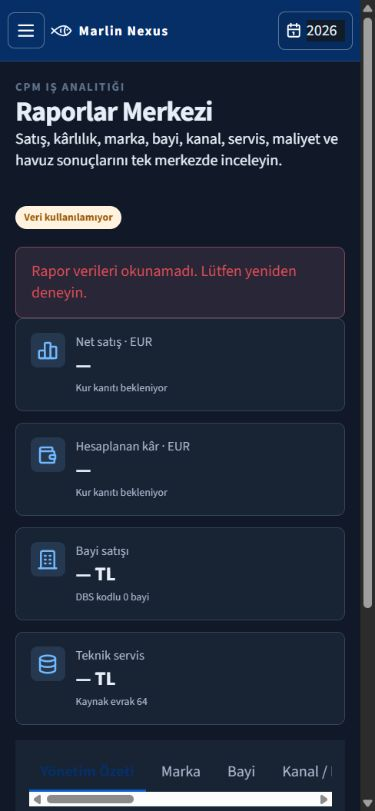
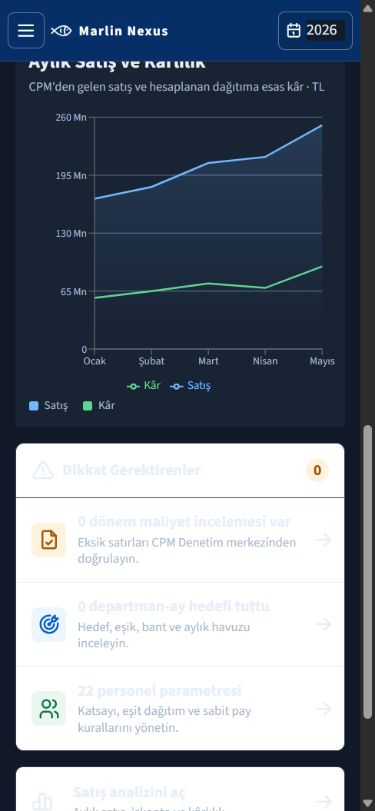
fix(ui): close final Task 3 review findings

diff --git a/src/SummaryPage.jsx b/src/SummaryPage.jsx
@@ -10,24 +10,28 @@ export function AccessibleChartLegend({ label, items }) {
   return <ul className="chart-legend" aria-label={label}>{items.map((item) => <li key={item.name}><i aria-hidden="true" style={{ background: item.color }} /><span>{item.name}</span></li>)}</ul>;
 }
 
-export function SummaryPage({ rows, settings, employees, targetRows, annualPool, year, mode, onNavigate }) {
+export function SummaryPage({ rows, settings, employees, targetRows, annualPool, year, mode = "demo", onNavigate }) {
   const [reportType,setReportType]=useState("management");
   const [startMonth,setStartMonth]=useState(1);
   const [endMonth,setEndMonth]=useState(12);
+  const isLoading = mode === "loading";
+  const isError = mode === "error";
+  const effectiveRows = isLoading || isError ? [] : rows;
+  const effectiveTargetRows = isLoading || isError ? [] : targetRows;
   const distributionResult = useMemo(
     () => calculateDepartmentDistribution({
       employees,
       settings,
-      targetRows,
+      targetRows: effectiveTargetRows,
     }),
-    [employees, settings, targetRows],
+    [employees, settings, effectiveTargetRows],
   );
   const distribution = distributionResult.employees;
-  const chartRows = rows.map((row) => ({ ...row, profit: row.profit ?? (row.sales - row.returns - row.discounts - row.estimatedCost - (row.uncoveredNetSales || 0)) }));
+  const chartRows = effectiveRows.map((row) => ({ ...row, profit: row.profit ?? (row.sales - row.returns - row.discounts - row.estimatedCost - (row.uncoveredNetSales || 0)) }));
   const totals = chartRows.reduce((acc, row) => ({ sales: acc.sales + row.sales, profit: acc.profit + row.profit }), { sales: 0, profit: 0 });
   const eligible = distribution.filter((employee) => employee.eligible).length;
-  const reviewPeriods = rows.filter((row) => Number(row.uncoveredCostLines || 0) > 0);
-  const targetMonths = targetRows.filter((row) => row.target > 0);
+  const reviewPeriods = effectiveRows.filter((row) => Number(row.uncoveredCostLines || 0) > 0);
+  const targetMonths = effectiveTargetRows.filter((row) => row.target > 0);
   const metTargetMonths = targetMonths.filter((row) => row.band !== "none");
   const reportRows=chartRows.filter((row)=>row.month>=startMonth&&row.month<=endMonth);
   const reportTotals=reportRows.reduce((acc,row)=>({sales:acc.sales+row.sales,returns:acc.returns+row.returns,discounts:acc.discounts+row.discounts,cost:acc.cost+row.estimatedCost,profit:acc.profit+row.profit}),{sales:0,returns:0,discounts:0,cost:0,profit:0});
@@ -42,18 +46,20 @@ export function SummaryPage({ rows, settings, employees, targetRows, annualPool,
     discount:`Seçilen dönemde ${money.format(reportTotals.discounts)} TL iskonto ve ${money.format(reportTotals.returns)} TL satış iadesi oluştu. Toplam ticari düşüş brüt satışın %${reportTotals.sales?(((reportTotals.discounts+reportTotals.returns)/reportTotals.sales)*100).toFixed(1).replace(".",","):0} seviyesindedir.`,
   };
 
+  const stateText = isLoading ? "Yönetici özeti verileri yükleniyor…" : "Yönetici özeti verileri okunamadı. Canlı veya pilot veri gösterilmiyor.";
   return <main className="page summary-page" id="top">
-    <section className="page-heading summary-heading"><div><p className="eyebrow">Yönetim özeti</p><h1>Havuz Genel Bakış</h1><p>{year} performansını, departman hedeflerini ve havuz oluşumunu tek ekranda izleyin.</p></div><span className={`source-badge source-badge--${mode}`}>{mode === "live" ? "CPM canlı" : "Pilot veri"}</span></section>
+    <section className="page-heading summary-heading"><div><p className="eyebrow">Yönetim özeti</p><h1>Havuz Genel Bakış</h1><p>{year} performansını, departman hedeflerini ve havuz oluşumunu tek ekranda izleyin.</p></div><span className={`source-badge source-badge--${mode}`}>{mode === "live" ? "CPM canlı" : mode === "demo" ? "Pilot veri" : mode === "loading" ? "Veri yükleniyor" : "Veri kullanılamıyor"}</span></section>
+    {(isLoading || isError) && <div className={`report-state report-state--${isError ? "error" : "loading"}`} role={isError ? "alert" : "status"} aria-live="polite">{stateText}</div>}
     <section className="summary-kpis">
-      <article><span><IconChartBar /></span><div className="label-value"><small>Net satışlar</small><strong>{money.format(totals.sales)} TL</strong><p>{rows.length} dönem verisi</p></div></article>
+      <article><span><IconChartBar /></span><div className="label-value"><small>Net satışlar</small><strong>{money.format(totals.sales)} TL</strong><p>{effectiveRows.length} dönem verisi</p></div></article>
       <article><span className="green"><IconWallet /></span><div className="label-value"><small>Net dağıtım havuzu</small><strong>{money.format(annualPool)} TL</strong><p>Hedef bantları, rezerv sonrası</p></div></article>
       <article><span className="blue"><IconUsers /></span><div className="label-value"><small>Uygun personel</small><strong>{eligible} / {distribution.length}</strong><p>{distribution.length - eligible} kişi kapsam dışında</p></div></article>
       <article><span className="amber"><IconTargetArrow /></span><div className="label-value"><small>Hedef tutan departman-ay</small><strong>{metTargetMonths.length} / {targetMonths.length}</strong><p>Temkinli veya büyüme bandı</p></div></article>
     </section>
     <section className="panel narrative-report"><div className="narrative-report__head"><div><p className="eyebrow">Yazılı analiz</p><h2>Seçilebilir Yönetim Raporu</h2></div><div className="narrative-controls"><select value={reportType} onChange={(event)=>setReportType(event.target.value)}><option value="management">Yönetim özeti</option><option value="sales">Satış raporu</option><option value="profit">Kârlılık raporu</option><option value="cost">Maliyet raporu</option><option value="discount">İskonto ve iade raporu</option></select><select value={startMonth} onChange={(event)=>setStartMonth(Math.min(Number(event.target.value),endMonth))}>{rows.map((row)=><option key={row.month} value={row.month}>{row.monthName}</option>)}</select><select value={endMonth} onChange={(event)=>setEndMonth(Math.max(Number(event.target.value),startMonth))}>{rows.map((row)=><option key={row.month} value={row.month}>{row.monthName}</option>)}</select><button className="secondary-button" onClick={()=>window.print()}>Raporu yazdır</button></div></div><p className="narrative-copy">{narratives[reportType]}</p><small>Devam eden aylar tamamlanmış ay gibi yorumlanmaz; rapor seçilen veri aralığıyla sınırlıdır.</small></section>
     <div className="summary-grid">
-      <section className="panel summary-performance"><div className="panel-heading"><div><h2>Aylık Satış ve Kârlılık</h2><p>CPM'den gelen satış ve hesaplanan dağıtıma esas kâr · TL</p></div></div>{chartRows.length ? <div className="summary-chart" role="img" aria-label="Aylık satış ve kârlılık grafiği"><ResponsiveContainer width="100%" height={310}><AreaChart data={chartRows} margin={{ top: 18, right: 18, left: 4, bottom: 4 }}><defs><linearGradient id="salesFill" x1="0" y1="0" x2="0" y2="1"><stop offset="5%" stopColor="var(--chart-sales)" stopOpacity={.25}/><stop offset="95%" stopColor="var(--chart-sales)" stopOpacity={0}/></linearGradient></defs><CartesianGrid vertical={false} stroke="var(--chart-grid)"/><XAxis dataKey="monthName" tick={{ fontSize: 11, fill: "var(--muted)" }}/><YAxis tickFormatter={(value) => compact.format(value)} tick={{ fontSize: 11, fill: "var(--muted)" }} width={72}/><Tooltip formatter={(value) => `${money.format(value)} TL`}/><Legend iconType="line" wrapperStyle={{ fontSize: 12 }}/><Area dataKey="sales" name="Satış" stroke="var(--chart-sales)" fill="url(#salesFill)" strokeWidth={2}/><Area dataKey="profit" name="Kâr" stroke="var(--chart-profit)" fill="transparent" strokeWidth={2}/></AreaChart></ResponsiveContainer></div> : <div className="report-state report-state--empty">Aylık grafik için veri bulunamadı.</div>}
-      <AccessibleChartLegend label="Aylık satış ve kârlılık serileri" items={[{ name: "Satış", color: "var(--chart-sales)" }, { name: "Kâr", color: "var(--chart-profit)" }]} />
+      <section className="panel summary-performance"><div className="panel-heading"><div><h2>Aylık Satış ve Kârlılık</h2><p>CPM'den gelen satış ve hesaplanan dağıtıma esas kâr · TL</p></div></div>{chartRows.length ? <div className="summary-chart" role="img" aria-label="Aylık satış ve kârlılık grafiği"><ResponsiveContainer width="100%" height={310}><AreaChart data={chartRows} margin={{ top: 18, right: 18, left: 4, bottom: 4 }}><defs><linearGradient id="salesFill" x1="0" y1="0" x2="0" y2="1"><stop offset="5%" stopColor="var(--chart-sales)" stopOpacity={.25}/><stop offset="95%" stopColor="var(--chart-sales)" stopOpacity={0}/></linearGradient></defs><CartesianGrid vertical={false} stroke="var(--chart-grid)"/><XAxis dataKey="monthName" tick={{ fontSize: 11, fill: "var(--muted)" }}/><YAxis tickFormatter={(value) => compact.format(value)} tick={{ fontSize: 11, fill: "var(--muted)" }} width={72}/><Tooltip formatter={(value) => `${money.format(value)} TL`}/><Legend iconType="line" wrapperStyle={{ fontSize: 12 }}/><Area dataKey="sales" name="Satış" stroke="var(--chart-sales)" fill="url(#salesFill)" strokeWidth={2}/><Area dataKey="profit" name="Kâr" stroke="var(--chart-profit)" fill="transparent" strokeWidth={2}/></AreaChart></ResponsiveContainer></div> : !(isLoading || isError) && <div className="report-state report-state--empty">Aylık grafik için veri bulunamadı.</div>}
+      {chartRows.length > 0 && <AccessibleChartLegend label="Aylık satış ve kârlılık serileri" items={[{ name: "Satış", color: "var(--chart-sales)" }, { name: "Kâr", color: "var(--chart-profit)" }]} />}
       </section>
       <aside className="summary-attention"><div className="summary-attention__head"><IconAlertTriangle/><strong>Dikkat Gerektirenler</strong><span>{reviewPeriods.length + distributionResult.departments.filter((item) => item.allocationStatus === "review-required").length}</span></div><div className="attention-list"><button onClick={() => onNavigate("audit")}><span className="attention-icon warning"><IconFileCheck/></span><div><strong>{reviewPeriods.length} dönem maliyet incelemesi var</strong><small>Eksik satırları CPM Denetim merkezinden doğrulayın.</small></div><IconArrowRight/></button><button onClick={() => onNavigate("goals")}><span className="attention-icon info"><IconTargetArrow/></span><div><strong>{metTargetMonths.length} departman-ay hedefi tuttu</strong><small>Hedef, eşik, bant ve aylık havuzu inceleyin.</small></div><IconArrowRight/></button><button onClick={() => onNavigate("settings")}><span className="attention-icon ok"><IconUsers/></span><div><strong>{distribution.length} personel parametresi</strong><small>Katsayı, eşit dağıtım ve sabit pay kurallarını yönetin.</small></div><IconArrowRight/></button></div></aside>
     </div>

diff --git a/src/DepartmentAnalysisPage.jsx b/src/DepartmentAnalysisPage.jsx
@@ -34,6 +34,18 @@ const DEPARTMENTS = {
   review: { name: "İnceleme Gerekli", color: "var(--chart-review)", center: "—" },
 };
 
+export function getDepartmentChartSeries(department) {
+  const series = [];
+  if (department !== "parts" && department !== "review") series.push({ name: "Servis net satış", color: DEPARTMENTS.service.color });
+  if (department !== "service" && department !== "review") series.push({ name: "Yedek Parça net satış", color: DEPARTMENTS.parts.color });
+  if (department === "all" || department === "review") series.push({ name: "İnceleme gerekli", color: DEPARTMENTS.review.color });
+  series.push({
+    name: department === "service" ? "Servis kâr" : department === "parts" ? "Yedek Parça kâr" : "Toplam kâr",
+    color: "var(--chart-profit)",
+  });
+  return series;
+}
+
 const emptyMetric = {
   grossSales: null, returns: null, discounts: null, netSales: null, cost: null, profit: null,
   margin: null, eurMargin: null, documentCount: 0, customerCount: 0, crossDepotSales: 0,
@@ -128,6 +140,7 @@ export function DepartmentAnalysisPage({ year, mode: appMode, consolidatedRows =
     ? "Uzlaşma kanıtı bekleniyor"
     : `Net fark ${formatMoney(reconciliation.difference)}`;
   const hasFinancialData = data.totals?.lineCount > 0;
+  const chartSeries = useMemo(() => getDepartmentChartSeries(department), [department]);
 
   const detailRows = useMemo(() => (data.detailRows || []).filter((row) => {
     if (department !== "all" && row.department !== department) return false;
@@ -228,8 +241,10 @@ export function DepartmentAnalysisPage({ year, mode: appMode, consolidatedRows =
       <section className="panel pilot-flow"><div className="panel-heading"><div><h2>Yeni CPM Atıf Akışı</h2><p>Az önce eklenen alanların Nexus tarafından nasıl yorumlandığı</p></div></div><div className="pilot-flow__steps"><div><span>1</span><strong>Satış Siparişi</strong><small>SATICINO + MASRAFKOD</small></div><IconChevronRight /><div><span>2</span><strong>Kaynak Bağlantısı</strong><small>SONKAYNAK*</small></div><IconChevronRight /><div><span>3</span><strong>Teslimat</strong><small>DEPOKOD · MRK/YTM</small></div><IconChevronRight /><div><span>4</span><strong>Nexus Analizi</strong><small>Ciro, maliyet, kâr, kanıt</small></div></div></section>
       <section className="panel pilot-orders"><div className="panel-heading"><div><h2>Algılanan Gerçek Pilot Siparişleri</h2><p>`SSP-00979` silindi ve kalıcı dışlama listesinde; burada yalnız yeni gerçek siparişler görünür.</p></div><button className="secondary-button" onClick={() => setRefreshToken((value) => value + 1)}><IconRefresh size={16} />Şimdi kontrol et</button></div><div className="table-scroll"><table><thead><tr><th>Sipariş</th><th>Tarih</th><th>Müşteri</th><th>Ticari sorumlu</th><th>Departman</th><th>Teslimat deposu</th><th>Durum</th></tr></thead><tbody>{(data.pilotOrders || []).map((order) => <tr key={`${order.documentNo}-${order.customerCode}`}><th>{order.documentNo}</th><td>{formatDate(order.documentDate)}</td><td>{order.customerCode}</td><td><strong>{order.ownerName}</strong><small>{order.ownerCode}</small></td><td><DepartmentBadge department={order.department} /></td><td>{order.depot?.name || "Belirsiz"}</td><td><span className={`evidence-pill evidence-pill--${order.status === "ready" ? "confirmed" : "review"}`}>{order.status === "ready" ? "Analize hazır" : "İncele"}</span></td></tr>)}{!data.pilotOrders?.length && <tr><td colSpan="7" className="empty-cell">Henüz gerçek pilot siparişi algılanmadı.</td></tr>}</tbody></table></div></section>
     </>}
-    <AccessibleChartLegend label="Departman satış ve kâr serileri" items={[{ name: "Servis net satış", color: DEPARTMENTS.service.color }, { name: "Yedek Parça net satış", color: DEPARTMENTS.parts.color }, { name: "İnceleme gerekli", color: DEPARTMENTS.review.color }, { name: "Toplam kâr", color: "var(--chart-profit)" }]} />
-    <AccessibleChartLegend label="Teslimat deposu serileri" items={[{ name: "Merkez Depo", color: "var(--chart-service)" }, { name: "Yatmarin Depo", color: "var(--chart-parts)" }, { name: "Belirsiz", color: "var(--chart-review)" }]} />
+    {tab === "overview" && hasFinancialData && <>
+      <AccessibleChartLegend label="Departman satış ve kâr serileri" items={chartSeries} />
+      <AccessibleChartLegend label="Teslimat deposu serileri" items={[{ name: "Merkez Depo", color: "var(--chart-service)" }, { name: "Yatmarin Depo", color: "var(--chart-parts)" }, { name: "Belirsiz", color: "var(--chart-review)" }]} />
+    </>}
   </main>;
 }
 
